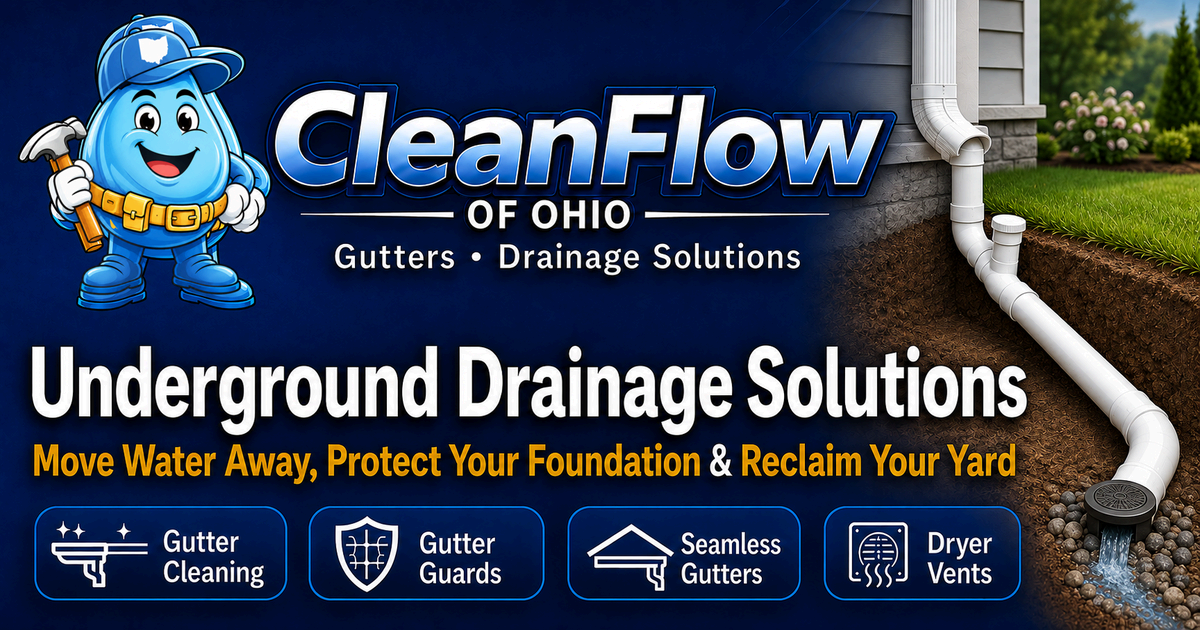
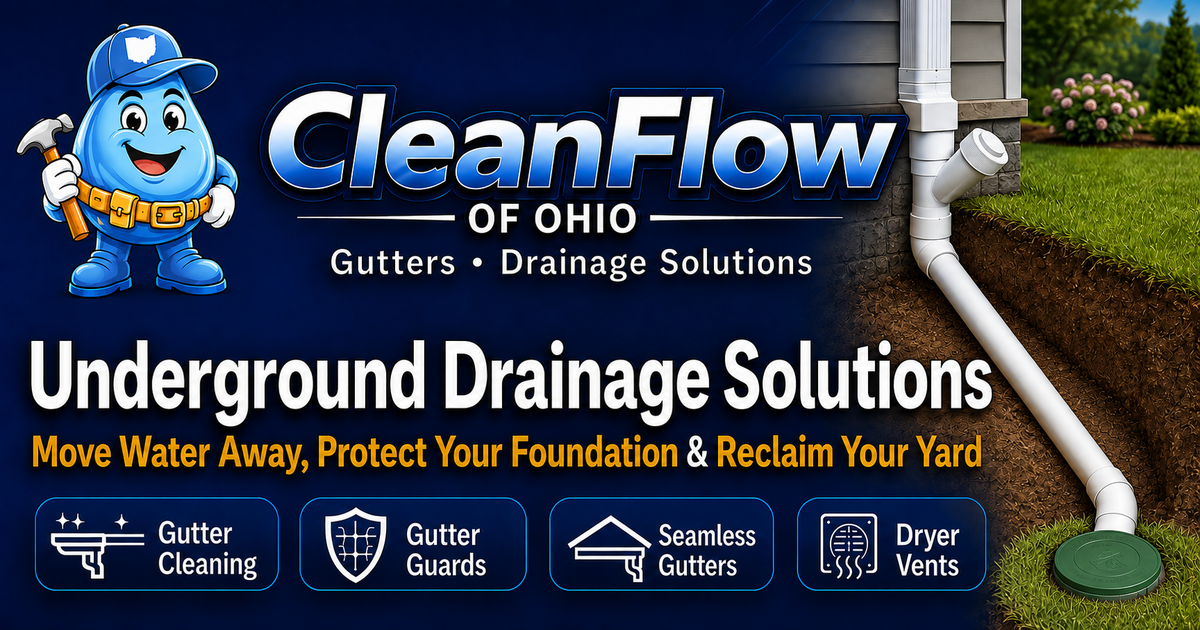
Correct underground drainage social preview

diff --git a/services/underground-downspout-drainage.html b/services/underground-downspout-drainage.html
@@ -16,14 +16,14 @@
   <meta property="og:image:type" content="image/png">
   <meta property="og:image:width" content="1200">
   <meta property="og:image:height" content="630">
-  <meta property="og:image:alt" content="CleanFlow of Ohio underground drainage graphic with the CleanFlow mascot, a connected downspout cleanout, solid PVC line, and drainage outlet">
+  <meta property="og:image:alt" content="CleanFlow of Ohio underground drainage graphic with the CleanFlow mascot, a downspout-to-PVC wye cleanout, solid buried pipe, and a green pop-up emitter">
   <meta property="og:locale" content="en_US">
 
   <meta name="twitter:card" content="summary_large_image">
   <meta name="twitter:title" content="Underground Downspout &amp; Yard Drainage | CleanFlow of Ohio">
   <meta name="twitter:description" content="Diagnosis first: buried downspout testing, repair and replacement, and practical yard drainage across the Miami Valley.">
   <meta name="twitter:image" content="https://www.cleanflowohio.com/assets/og-underground-drainage.png">
-  <meta name="twitter:image:alt" content="CleanFlow of Ohio underground drainage graphic with the CleanFlow mascot, a connected downspout cleanout, solid PVC line, and drainage outlet">
+  <meta name="twitter:image:alt" content="CleanFlow of Ohio underground drainage graphic with the CleanFlow mascot, a downspout-to-PVC wye cleanout, solid buried pipe, and a green pop-up emitter">
 
   <link rel="preconnect" href="https://fonts.googleapis.com">
   <link rel="preconnect" href="https://fonts.gstatic.com" crossorigin>

diff --git a/assets/README.md b/assets/README.md
@@ -25,7 +25,7 @@ name and icon, and never imply a job result.
 | `assets/og-seamless-gutter-installation.png` | PNG, 1200x630 | ~403 KB | **Owner-approved, AI-assisted CleanFlow of Ohio page-specific promotional artwork**, refined under the owner's direction from an approved social-preview concept. The Ohio hat emblem was corrected against cartographic boundary references. | Page-specific `og:image` and `twitter:image` for `/services/gutter-installation` |
 | `assets/og-gutter-cleaning.png` | PNG, 1200x630 | ~685 KB | **Owner-approved, AI-assisted CleanFlow of Ohio page-specific promotional artwork**, using the owner's approved mascot and gutter-cleaning visual direction. | Page-specific `og:image` and `twitter:image` for `/services/gutter-cleaning` |
 | `assets/og-dryer-vent-cleaning.png` | PNG, 1200x630 | ~700 KB | **Owner-approved, AI-assisted CleanFlow of Ohio page-specific promotional artwork**, using the owner's approved mascot and dryer-vent-cleaning visual direction. | Page-specific `og:image` and `twitter:image` for `/services/dryer-vent-cleaning` |
-| `assets/og-underground-drainage.png` | PNG, 1200x630 | ~700 KB | **Owner-approved, AI-assisted CleanFlow of Ohio page-specific promotional artwork**, using the owner's approved mascot and underground-drainage visual direction. | Page-specific `og:image` and `twitter:image` for `/services/underground-downspout-drainage` |
+| `assets/og-underground-drainage.png` | PNG, 1200x630 | ~1.1 MB | **Owner-approved, AI-assisted CleanFlow of Ohio page-specific promotional artwork**, using the owner's approved mascot and underground-drainage visual direction. | Page-specific `og:image` and `twitter:image` for `/services/underground-downspout-drainage` |
 | `assets/brand/hero-pattern.svg` | SVG, 1200x600 | ~2.0 KB | Original **decorative background texture** created for this site — abstract roofline, gutter run, and droplet motif. It is a pattern, not a brand mark, and is not used as a logo anywhere. | `#hero` and `.services-hero-wow` backgrounds in `style.css`; `/services/dryer-vent-cleaning` hero |
 | `assets/brand/og-image.source.html` | HTML | ~4.5 KB | Historical build source for the previous global social preview. Marked `noindex, nofollow`; not linked from the site. | Retained for design history; it does not generate the current `og-image.png` |
 
